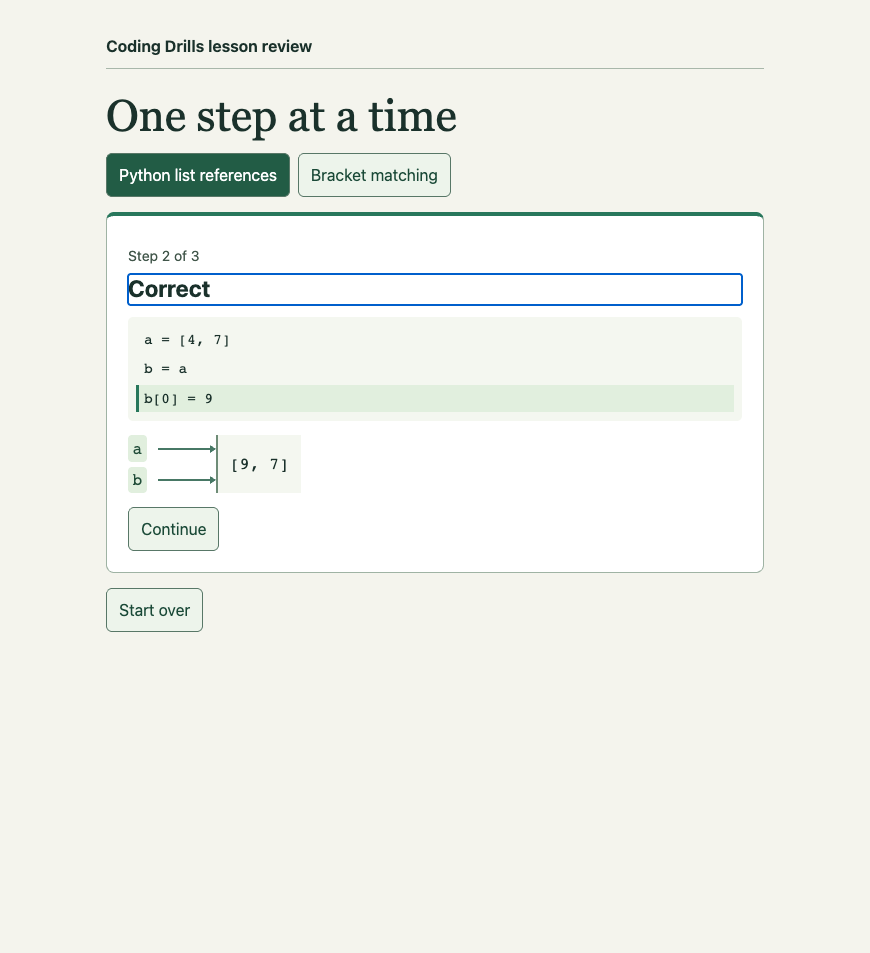
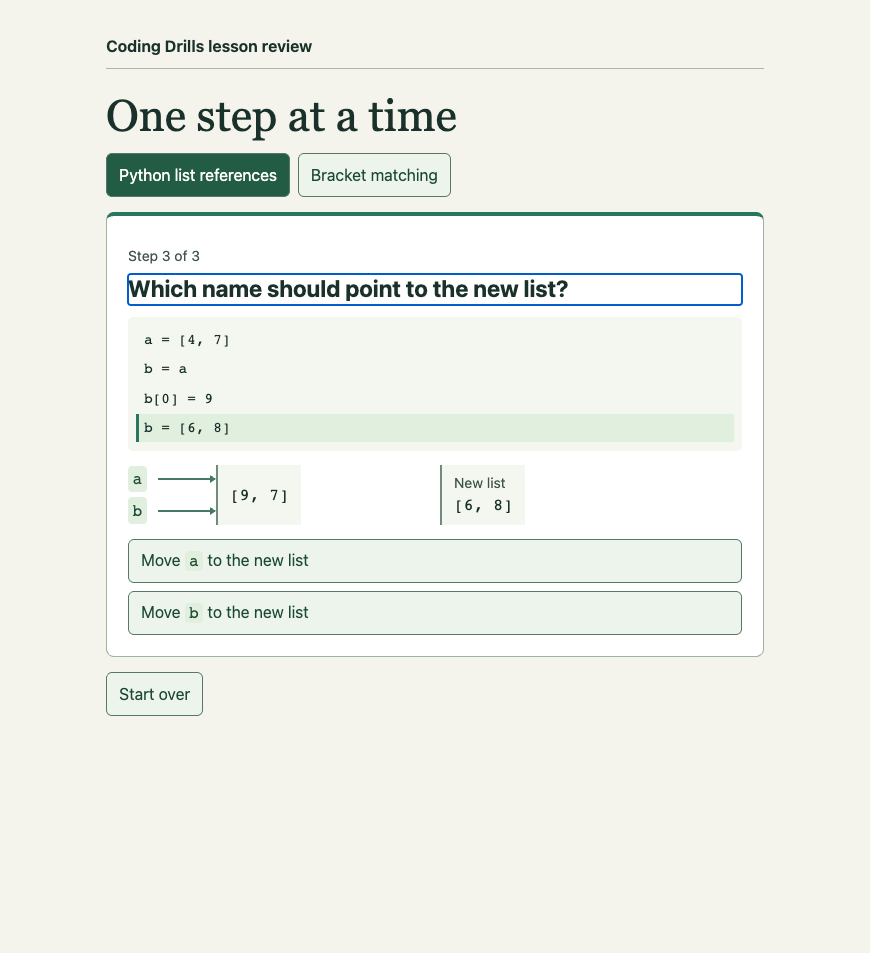
feat: use visual stack choices and advance without confirmation

Changed region(s): [[0.1241, 0.426, 0.8379, 0.6695], [0.1552, 0.2434, 0.6517, 0.3347], [0.1241, 0.6999, 0.2172, 0.7608]]

diff --git a/docs/prototypes/learning-harness/guided-scenarios.html b/docs/prototypes/learning-harness/guided-scenarios.html
@@ -13,7 +13,8 @@ h1 { font: normal clamp(2rem, 6vw, 2.75rem)/1.12 Georgia, serif; margin: 23px 0 
 h2 { font-size: clamp(1.2rem, 4.75vw, 1.45rem); margin: 0 0 12px; line-height: 1.3; }
 p { margin: 8px 0; }
 button { font: inherit; min-height: 44px; color: #1a4937; background: #edf4eb; border: 1px solid #587767; border-radius: 6px; padding: 7px 12px; cursor: pointer; }
-button:hover { background: #dcebdd; }
+button:hover:not(:disabled) { background: #dcebdd; }
+button:disabled { opacity: .64; cursor: default; }
 button:focus-visible { outline: 3px solid #246f9c; outline-offset: 2px; }
 button[aria-pressed=true] { background: #225c45; color: #fff; }
 nav, .actions, .tokens { display: flex; flex-wrap: wrap; gap: 8px; align-items: center; }
@@ -32,9 +33,6 @@ code.inline-code { color: #214d39; background: #e1efde; border-radius: 4px; padd
 .reference-line { position: relative; height: 12px; }
 .reference-line::before { content: ""; position: absolute; top: 5px; left: 0; right: 3px; height: 2px; background: #477865; }
 .reference-line::after { content: ""; position: absolute; top: 2px; right: 0; border-top: 4px solid transparent; border-bottom: 4px solid transparent; border-left: 6px solid #477865; }
-.reference-row.connected .reference-line { animation: connect-reference 260ms ease-out both; }
-@keyframes connect-reference { from { clip-path: inset(0 100% 0 0); } to { clip-path: inset(0); } }
-@media (prefers-reduced-motion: reduce) { .reference-row.connected .reference-line { animation: none; } }
 .list-target { display: grid; align-content: center; justify-items: start; min-height: 42px; padding: 7px 12px; background: #f4f7f0; border-left: 2px solid #6e8c77; }
 .list-value { display: block; font-size: 1.02rem; white-space: nowrap; }
 .bracket { display: inline-grid; place-items: center; min-width: 44px; min-height: 44px; border: 1px solid #99ad9e; border-radius: 5px; padding: 3px 5px; background: #f2f5ee; }
@@ -46,6 +44,9 @@ code.inline-code { color: #214d39; background: #e1efde; border-radius: 4px; padd
 .stack { display: grid; gap: 4px; width: max-content; min-width: 116px; padding: 0 10px 10px; margin: 12px 0; border: solid #879d8b; border-width: 0 2px 2px; }
 .stack .caption { margin: 2px 0; }
 .stack-entry { text-align: center; font-size: 1.23rem; }
+.stack-options { display: grid; grid-template-columns: repeat(2, minmax(0, 1fr)); gap: 10px; max-width: 360px; }
+.stack-choice { display: grid; justify-items: center; padding: 10px 8px; }
+.stack-choice .stack { width: min(100%, 116px); min-width: 0; margin: 0; }
 .caption { color: #41564a; font-size: .88rem; }
 .feedback { min-height: 1.4em; margin-top: 12px; color: #274c39; }
 .feedback:empty { margin: 0; min-height: 0; }
@@ -68,7 +69,7 @@ footer { margin-top: 12px; }
 </main>
 <script>
 const lesson = document.getElementById("lesson");
-let scenario, step, completed, feedback;
+let scenario, step, feedback;
 
 function add(tag, text, parent=lesson, className=""){
  const element = document.createElement(tag);
@@ -101,12 +102,16 @@ function prompt(text){
  return heading;
 }
 function coach(right, message){
- if(right){completed=true;render(message);return}
+ if(right&&step<3){advance();return}
  writeCopy(feedback,message);
+ if(right){
+  for(const choice of lesson.querySelectorAll("button"))choice.disabled=true;
+  const actions=add("div","",lesson,"actions");
+  button("Try the other lesson",()=>start(scenario==="references"?"brackets":"references"),actions).focus();
+ }
 }
 function advance(){
  step++;
- completed=false;
  render();
 }
 function code(lines, active=-1){
@@ -116,14 +121,14 @@ function code(lines, active=-1){
   if(i===active)row.setAttribute("aria-current","step");
  }
 }
-function listItem(board, names, values, {newReference}={}){
+function listItem(board, names, values){
  const list=add("div","",board,"object");
  list.setAttribute("role","group");
  list.setAttribute("aria-label",names.length?"List referenced by "+names.join(" and "):"New list");
  const references=add("div","",list,"reference-names");
  references.setAttribute("aria-hidden","true");
  for(const name of names){
-  const row=add("div","",references,name===newReference?"reference-row connected":"reference-row");
+  const row=add("div","",references,"reference-row");
   add("code",name,row,"inline-code");
   add("span","",row,"reference-line");
  }
@@ -142,19 +147,17 @@ const listCode=["a = [4, 7]", "b = a", "b[0] = 9", "b = [6, 8]"];
 function lists(){
  const headings=["After `b = a`, what does `b` refer to?","What happens to `a` and `b` after `b[0] = 9`?","Which name should point to the new list?"];
  if(step===3){
-  const h=prompt(completed?"`x[0]` is 1":"What does the new example print?");
+  const h=prompt("What does the new example print?");
   code(["x = [1, 2]", "y = x", "y = [3, 4]", "y[0] = 6", "print(x[0])"]);
-  if(!completed){
-   const actions=add("div","",lesson,"actions");
-   for(const value of ["1","3","6"]){
-    button(value,()=>coach(value==="1",value==="1"
-     ?"`y` points at the new list before the write. `x` still points at `[1, 2]`."
-     :"Trace which list `y` points to when the write happens. Then follow `x`."),actions);
-   }
+  const actions=add("div","",lesson,"actions");
+  for(const value of ["1","3","6"]){
+   button(value,()=>coach(value==="1",value==="1"
+    ?"It prints `1`. `y` points to the new list before the write, and `x` still points to `[1, 2]`."
+    :"Trace which list `y` points to when the write happens. Then follow `x`."),actions);
   }
   return h;
  }
- const h=prompt(completed?"Correct":headings[step]);
+ const h=prompt(headings[step]);
  code(listCode.slice(0,step+2),step+1);
  if(step===0){
   answerChoices([
@@ -163,24 +166,22 @@ function lists(){
   ]);
   return h;
  }
- if(step===1&&!completed){
+ if(step===1){
   answerChoices([
    ["`a` → `[4, 7]`\n`b` → `[9, 7]`",
     ()=>coach(false,"`b[0] = 9` edits the list that `b` refers to. Check where `a` points before that edit."),
     "a refers to [4, 7]. b refers to [9, 7]."],
-   ["`a` → `[9, 7]`\n`b` → `[9, 7]`",()=>coach(true),"a refers to [9, 7]. b refers to [9, 7]."]
+   ["`a` → `[9, 7]`\n`b` → `[9, 7]`",advance,"a refers to [9, 7]. b refers to [9, 7]."]
   ]);
   return h;
  }
  const board=add("div","",lesson,"objects");
- listItem(board,step===2&&completed?["a"]:["a","b"],["9","7"]);
- if(step===2){
-  listItem(board,completed?["b"]:[],["6","8"],{newReference:completed?"b":undefined});
-  if(!completed)answerChoices([
-   ["Move `a` to the new list",()=>coach(false,"The left side of the assignment is `b`. `a` still points to its original list.")],
-   ["Move `b` to the new list",()=>coach(true)]
-  ]);
- }
+ listItem(board,["a","b"],["9","7"]);
+ listItem(board,[],["6","8"]);
+ answerChoices([
+  ["Move `a` to the new list",()=>coach(false,"The left side of the assignment is `b`. `a` still points to its original list.")],
+  ["Move `b` to the new list",advance]
+ ]);
  return h;
 }
 
@@ -204,47 +205,54 @@ function bracketRow(characters, opts={}){
   button(char,()=>opts.pick(i),row,{labelForReader:label,className:"bracket"});
  }
 }
-function stackLesson(){
- if(step===0)add("p","Brackets must close in reverse order. A stack stores the opening brackets that still need a match. The most recently added opener sits on top.");
- if(step===3){
-  const h=prompt(completed?"The closing parenthesis is the first mismatch":"Which character first breaks the matching rule?");
-  bracketRow(["(","[",")","]"],completed?{active:2}:{pick:index=>coach(index===2,
-   index===2?"When ) appears, [ is on top. ) can’t skip [ to match the earlier (."
-   :"Read the brackets from left to right. Which closer first meets an opener of the wrong type?")});
-  if(!completed){
-   const actions=add("div","",lesson,"actions");
-   button("All brackets match",()=>coach(false,"Each closing bracket has to match the opener currently on top."),actions);
+function stackPicture(parent, items, onPick){
+ const stack=add("span","",parent,"stack");
+ add("span","Top of stack",stack,"caption");
+ for(const [index,item] of items.entries()){
+  if(onPick){
+   button(item,()=>onPick(index),stack,{labelForReader:index===0?"Top opener "+item:"Earlier opener "+item,className:"bracket"});
+  }else{
+   add("code",item,stack,"stack-entry");
   }
+ }
+ if(items.length===0)add("span","Empty",stack,"caption");
+}
+function stackOptions(){
+ const choices=add("div","",lesson,"stack-options");
+ choices.setAttribute("role","group");
+ choices.setAttribute("aria-label","Possible stack states");
+ const options=[
+  {items:["[","("],label:"Stack with [ on top and ( below",choose:advance},
+  {items:["(","["],label:"Stack with ( on top and [ below",choose:()=>coach(false,"A new opening bracket goes on top of the stack.")}
+ ];
+ for(const {items,label,choose} of options){
+  const choice=button("",choose,choices,{labelForReader:label,className:"stack-choice"});
+  stackPicture(choice,items);
+ }
+}
+function stackLesson(){
+ if(step===0)add("p","Read from left to right. The stack holds opening brackets that still need a match.");
+ if(step===3){
+  const h=prompt("Which character first breaks the matching rule?");
+  bracketRow(["(","[",")","]"],{pick:index=>coach(index===2,
+   index===2?"The first mismatch is `)` at character 3. It can’t skip `[` to match the earlier `(`."
+   :"Read the brackets from left to right. Which closer first meets an opener of the wrong type?")});
+  const actions=add("div","",lesson,"actions");
+  button("All brackets match",()=>coach(false,"Each closing bracket has to match the opener currently on top."),actions);
   return h;
  }
- const headers=["Where should `[` go in the stack?","Which opener in the stack matches `]`?","Which opener in the stack matches `)`?"];
- const after=["`[` is now on top", "The square brackets are paired", "The stack is empty"];
- const h=prompt(completed?after[step]:headers[step]);
- if(!completed)writeCopy(add("p",""),step===0?"The first `(` is already on the stack.":"Select one opener in the stack.");
+ const headers=["What does the stack look like after reading `[`?","Which opener in the stack matches `]`?","Which opener in the stack matches `)`?"];
+ const h=prompt(headers[step]);
  bracketRow(guidedBrackets,{active:step+1});
- const stack=add("div","",lesson,"stack");
- add("strong","Top of stack",stack,"caption");
- const stackStates=[["("],["[","("],["("],[]];
- const items=stackStates[step+Number(completed)];
- for(const [index,item] of items.entries()){
-  if(step>0&&!completed){
-   button(item,()=>coach(index===0,index===0
-    ?step===1?"The top opener is [. It matches ], so remove it.":"The top opener is (. It matches ), so remove it."
-    :"] has to match the most recent opener. Compare it with the bracket on top."),
-    stack,{labelForReader:index===0?"Top opener "+item:"Earlier opener "+item,className:"bracket"});
-  }else add("code",item,stack,"stack-entry");
- }
- if(items.length===0)add("p","Empty",stack,"caption");
- if(step===0&&!completed){
-  answerChoices([
-   ["Put `[` above `(`",()=>coach(true,"The newest opener goes above the earlier one.")],
-   ["Put `[` below `(`",()=>coach(false,"The stack puts the newest opener on top.")]
-  ]);
- }
+ const stackStates=[["("],["[","("],["("]];
+ if(step===0)add("p","Current stack",lesson,"caption");
+ const pickOpener=step>0?index=>coach(index===0,"`]` has to match the most recent opener. Compare it with the bracket on top."):null;
+ stackPicture(lesson,stackStates[step],pickOpener);
+ if(step===0)stackOptions();
  return h;
 }
 
-function render(message="", focus=true){
+function render(focus=true){
  lesson.replaceChildren();
  for(const name of ["references","brackets"]){
   document.getElementById(name).setAttribute("aria-pressed",name===scenario);
@@ -252,20 +260,13 @@ function render(message="", focus=true){
  add("p",step===3?"Fresh example":"Step "+(step+1)+" of 3",lesson,"caption");
  const heading=scenario==="references"?lists():stackLesson();
  feedback=add("p","",lesson,"feedback");
- writeCopy(feedback,message);
  feedback.setAttribute("role","status");
- if(completed){
-  button(step===2?"Try a fresh example":step===3?"Try the other lesson":"Continue",
-   step===3?()=>start(scenario==="references"?"brackets":"references"):advance,
-   add("div","",lesson,"actions"));
- }
  if(focus)heading.focus();
 }
 function start(name, focus=true){
  scenario=name;
  step=0;
- completed=false;
- render("",focus);
+ render(focus);
 }
 document.getElementById("references").onclick=()=>start("references");
 document.getElementById("brackets").onclick=()=>start("brackets");
